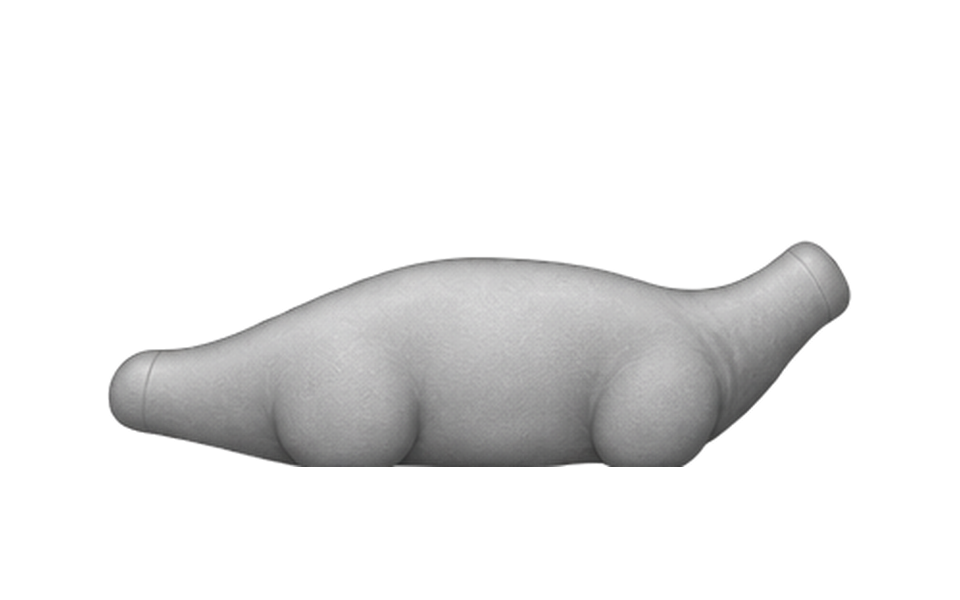
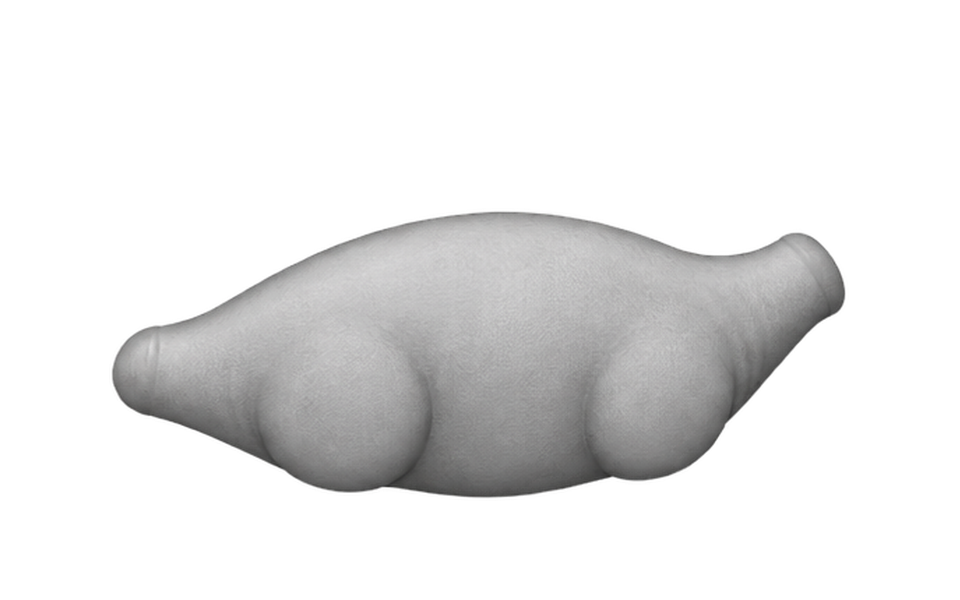
Claude 2 updates

Changed region(s): [[0.0938, 0.33, 0.9062, 0.84], [0.5938, 0.69, 0.625, 0.72]]

diff --git a/src/data/parts.js b/src/data/parts.js
@@ -57,13 +57,13 @@ export const TEXTURES = {
   feathers: 'Feathers'
 };
 
-// Attachment points on each body, from Sutton's anchors.json.
+// Attachment points on each body (from Sutton's anchors.json; Triceratops and Brachiosaurus re-measured for their redraws).
 // Bodies are drawn on a 960x600 canvas with the top-left at (0,0).
 export const BODY_ANCHORS = {
   trex:          { tail_base: [130, 337], hip: [367, 422], shoulder: [628, 339], neck: [818, 259] },
-  triceratops:   { tail_base: [144, 344], hip: [383, 419], shoulder: [650, 348], neck: [822, 267] },
+  triceratops:   { tail_base: [128, 325], hip: [355, 400], shoulder: [645, 392], neck: [820, 242] }, // rounded-belly redraw
   stegosaurus:   { tail_base: [145, 437], hip: [354, 457], shoulder: [639, 411], neck: [826, 383] },
   spinosaurus:   { tail_base: [149, 409], hip: [355, 444], shoulder: [640, 408], neck: [826, 339] },
-  brachiosaurus: { tail_base: [130, 387], hip: [346, 413], shoulder: [645, 351], neck: [837, 283] },
+  brachiosaurus: { tail_base: [128, 372], hip: [345, 432], shoulder: [658, 422], neck: [822, 268] }, // rounded-belly redraw
   ankylosaurus:  { tail_base: [150, 343], hip: [367, 392], shoulder: [647, 352], neck: [831, 303] }
 };

diff --git a/src/data/facts.js b/src/data/facts.js
@@ -5,7 +5,7 @@ export const FACTS = [
   'Did you know there are more dinosaur fossils at the bottom of the ocean than on Mars?',
   'Did you know chickens are dinosaurs? So chicken nuggets are technically dinosaur nuggets!',
   'Did you know no T. rex has ever won a clapping contest?',
-  'Did you know a Brachiosaurus could have peeked into a fourth-floor window, if anyone had built one?',
+  'Did you know that Brachiosaurus could have peeked into a fourth-floor window, but everyone knows that most of them were too shy to do it?',
   'Did you know no Stegosaurus has ever sent a text message?',
   'Did you know dinosaurs grew new teeth their whole lives, so they never needed a dentist?',
   "Did you know some dinosaurs swallowed rocks on purpose to help mash up their food? (Please don't try this at home.)",
